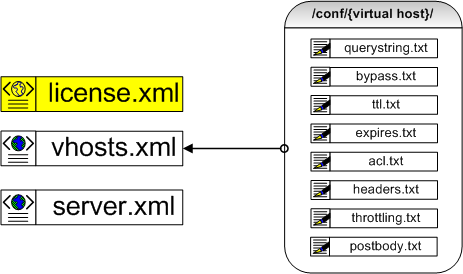
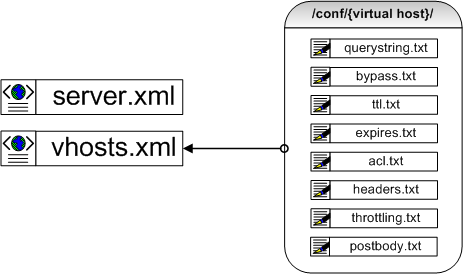
1
1

Changed region(s): [[0.0, 0.2628, 0.3931, 0.438], [0.0, 0.6715, 0.4233, 0.8467]]

diff --git a/admin/environment.kr.rst b/admin/environment.kr.rst
@@ -3,6 +3,10 @@
 기본설정
 ******************
 
+이 장에서는 설정구조와 분류기준에 대해 설명한다. 
+후반부에는 가상호스트 생성과 파괴, 원본서버 주소 설정에 대해 설명한다.
+구조를 정확히 이해해야 빠르게 서버를 배치할 수 있을뿐만 아니라 장애상황을 유연하게 극복할 수 있다.
+
 설정은 크게 전역(server.xml)과 가상호스트(vhosts.xml)로 나뉜다.
 
    .. figure:: img/conf_files.png
@@ -10,8 +14,14 @@
 
       3개의 .xml파일이 전부입니다.
 
-이 장에서는 설정구조에 설명한다. 설정구조를 이해해야 앞으로 설명할 많은 기능들을 
-올바르게 설정할 수 있다. 특히 가상호스트 상속에 대해서는 반드시 이해해야 한다.
+2개의 XML파일로 대부분의 서비스를 구성한다.
+여러 TXT파일에는 가상호스트별 예외조건을 설정하는데, 특정기능의 목록을 작성하는데 사용된다.
+
+
+.. note:
+   
+   라이센스(license.xml)는 설정이 아니다.
+
 
 .. toctree::
    :maxdepth: 2
@@ -22,7 +32,7 @@
 전역설정 (server.xml)
 ====================================
 
-실행파일과 같은 경로에 존재하는 server.xml 이 유일한 전역설정 파일이다.
+실행파일과 같은 경로에 존재하는 server.xml이 전역설정 파일이다.
 XML형식으로 누구나 간단히 편집할 수 있다. ::
 
     <Server>
@@ -32,8 +42,8 @@ XML형식으로 누구나 간단히 편집할 수 있다. ::
         <Https> ... </Https>
     </Server>
     
-여기서는 전역설정의 모든 부분에 대해 설명하지는 않는다. 예를 들어 접근제어나 SNMP등은 
-각 주제를 다루는 장에서 설명한다. 기본적인 구조와 기능에 대한 이해를 목적으로 한다.
+여기서는 전역설정의 구조와 간단한 기능위주로 설명한다.
+:ref:`access-control` 나 :ref:`snmp` 등 전역설정에 위치하지만 덩치가 큰 기능들에 대해서는 각 주제를 다루는 장에서 설명한다. 
 
 
 .. _env-host:
@@ -55,28 +65,36 @@ XML형식으로 누구나 간단히 편집할 수 있다. ::
     </Host>
 
 -  ``<Name>``
-    서버 이름을 설정합니다. 이름이 입력되지 않으면, 시스템에 설정된 시스템 이름이 사용됩니다.
--  ``<Admin>``
-    관리자 정보(메일 또는 이름)를 설정합니다. 이 항목은 SNMP 조회목적으로만 사용됩니다.
--  ``<Manager>``
-    관리용도로 사용할 매니저 포트와 ACL(Access Control List)을 설정한다. ACL은 IP, IP범위, 
-    BitMask, Subnet 이상 네 가지 형식을 지원한다. 접속한 세션이 Allow로 접근이 허가된 
-    IP가 아니면 강제로 접속을 종료한다. API를 호출하는 IP가 매니저 허가 목록에 반드시
-    등록되어 있어야 한다.
+    서버 이름을 설정한다. 
+    이름이 입력되지 않으면 시스템 이름이 사용한다.
     
-    접근조건에 따라 접근권한(Role)을 설정할 수 있다. 접근권한이 없는 요청에 
-    대해서는 401 Unauthorized로 응답한다. Allow조건에 Role을 명시적으로 선언하지 
-    않았을 경우 Manager의 Role속성이 적용된다.
+-  ``<Admin>``
+    관리자 정보(메일 또는 이름)를 설정한다. 
+    이 항목은 SNMP 조회목적으로만 사용된다.
+    
+-  ``<Manager>``
+    관리용도로 사용할 매니저 포트와 ACL(Access Control List)을 설정한다. 
+    ACL은 IP, IP범위, BitMask, Subnet 이상 네 가지 형식을 지원한다. 
+    접속한 세션이 Allow로 접근이 허가된 IP가 아니면 접속을 차단한다.
+    API를 호출하는 IP가 매니저 허가 목록에 반드시 등록되어 있어야 한다.
+    
+    접근조건에 따라 접근권한(Role)을 설정할 수 있다. 
+    접근권한이 없는 요청에 대해서는 **401 Unauthorized**로 응답한다. 
+    ``<Allow>`` 조건에 ``Role`` 속성을 명시적으로 선언하지 않을 경우 ``<Manager>`` 의 ``Role`` 속성이 적용된다.
     
     - ``Admin`` 모든 API호출이 가능하다.
-    - ``User`` Monitoring과 Graph계열 API만 호출할 수 있다.
-    - ``Looker`` Graph계열 API만 호출할 수 있다.
+    - ``User`` ref:`api_monitoring` , ref:`api-graph` API만 호출할 수 있다.
+    - ``Looker`` ref:`api-graph` API만 호출할 수 있다.
     
-    서비스포트(80)로 HTTP Method를 호출하는 경우 HttpMethod속성의 영향을 받는다. 
-    이 설정이 ON인 경우 서비스포트로 요청되었더라도 HTTP Method라면 ACL의 영향을 받는다. 
-    반대로 이 설정이 OFF인 경우 ACL의 영향을 받지 않는다. 
+    접근권한 이외에 관리목적의 속성을 가진다.
     
-    설정파일을 POST(Multipart방식)로 업로드할 때 UploadMultipartName속성의 값을 사용한다.
+    - ``HttpMethod``
+    
+      - ``ON (기본)`` :ref:`api-etc-httpmethod` 호출시 ACL을 검사한다.
+      
+      - ``OFF`` :ref:`api-etc-httpmethod` 호출시 ACL을 검사하지 않는다.
+    
+    - ``UploadMultipartName`` :ref:`api-conf-upload` 의 변수명을 설정한다.
 
 
 .. _env-cache:

diff --git a/api/etc.kr.rst b/api/etc.kr.rst
@@ -1,4 +1,4 @@
-.. _api_etc:
+.. _api-etc:
 
 기타
 ******************
@@ -9,6 +9,8 @@
    :maxdepth: 2
 
 
+.. _api-etc-help:
+
 Help
 ====================================
 
@@ -16,6 +18,8 @@ API 목록을 확인한다. ::
 
     http://127.0.0.1:10040/help
 
+
+.. _api-etc-version:
 
 Version
 ====================================
@@ -25,7 +29,9 @@ Version
     http://127.0.0.1:10040/version
 
 
-HTTP Method 지원
+.. _api-etc-httpmethod:
+
+HTTP Method
 ====================================
 
 Purge, Expire, ExpireAfter, HardPurge의 경우 HTTP Method로 지원된다. 
@@ -37,6 +43,8 @@ Purge, Expire, ExpireAfter, HardPurge의 경우 HTTP Method로 지원된다.
 HTTP Method는 기본적으로 Manager포트와 서비스(80)포트에서 동작한다. 
 서비스포트로 요청되는 HTTP Method의 ACL은 Manager설정을 참고한다.
 
+
+.. _api-etc-post:
 
 POST 지원
 ====================================
